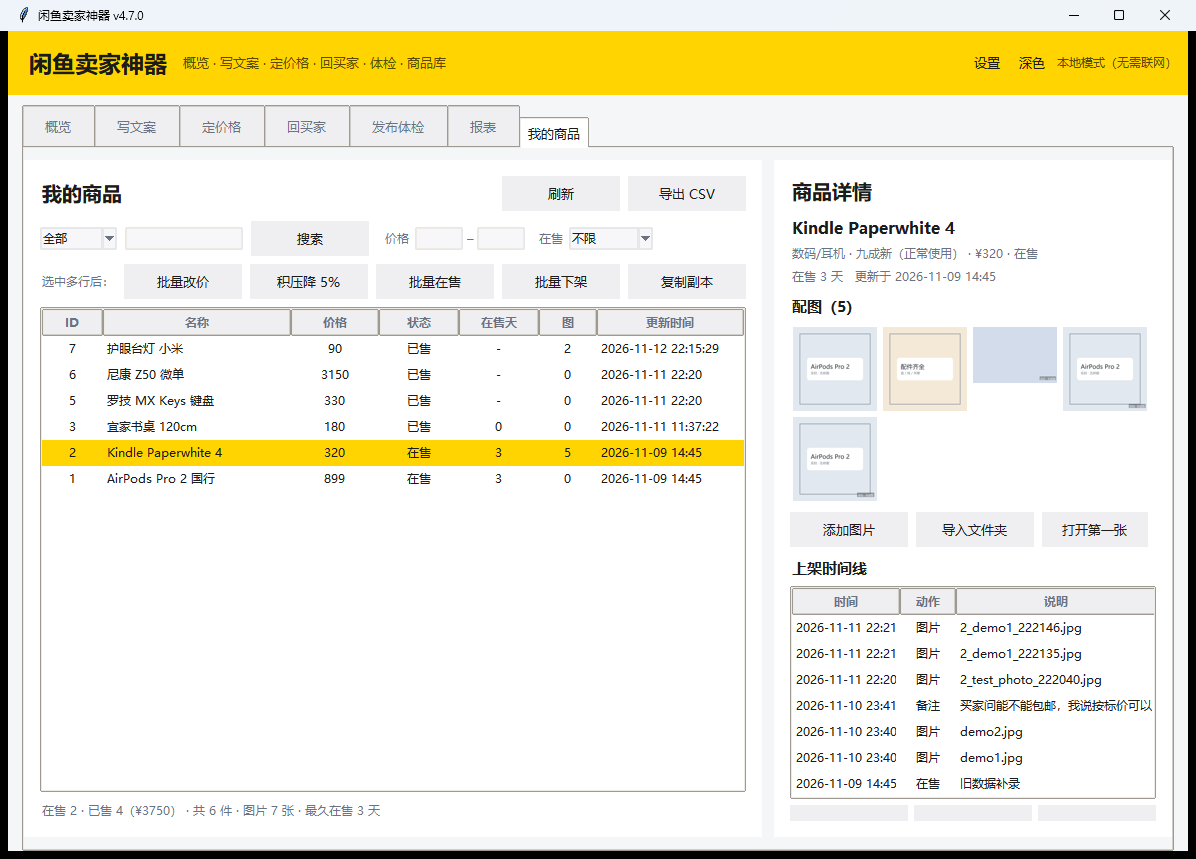
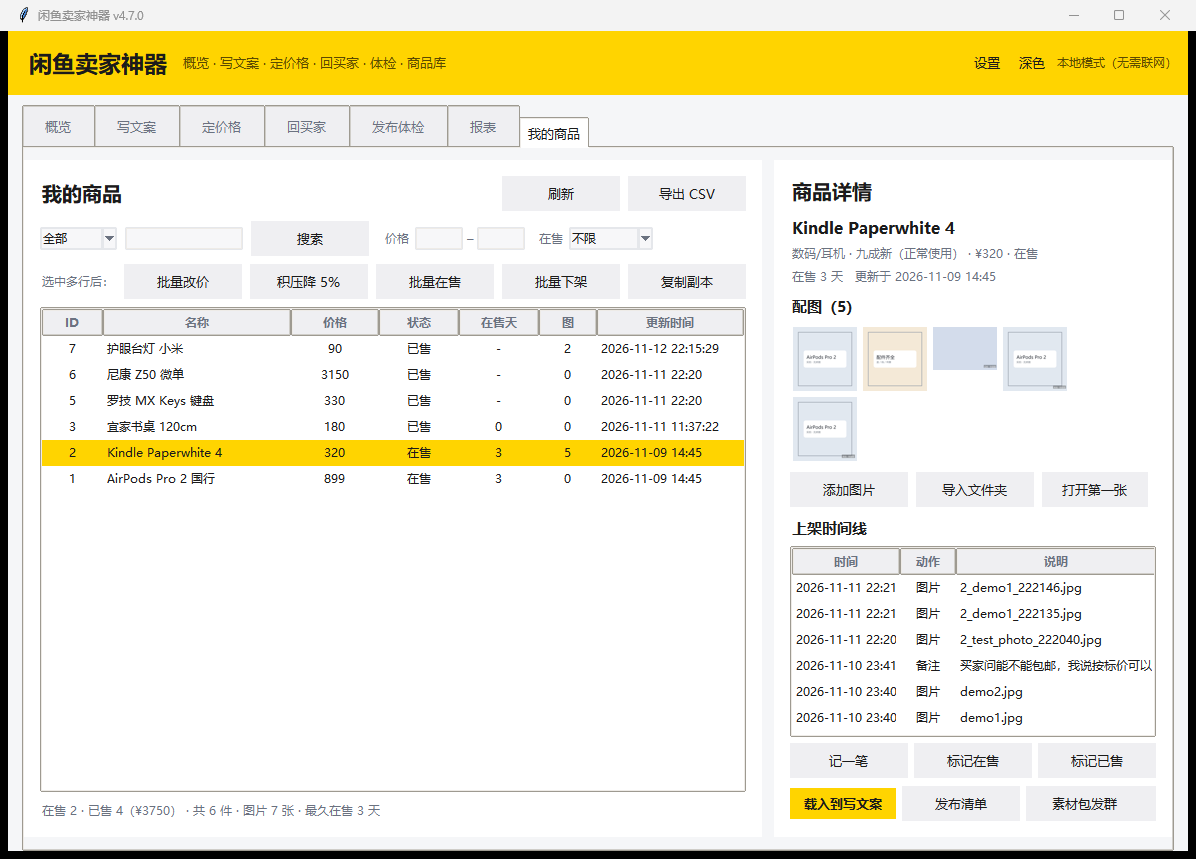
fix: 详情面板压缩，底部按钮不再被裁

diff --git a/app.py b/app.py
@@ -1191,7 +1191,7 @@ class App(tk.Tk):
 
         self.lbl_time_head = ttk.Label(right, text="上架时间线", style="H2.TLabel")
         self.lbl_time_head.pack(anchor="w")
-        self.tv_time = ttk.Treeview(right, columns=("at", "kind", "note"), show="headings", height=7)
+        self.tv_time = ttk.Treeview(right, columns=("at", "kind", "note"), show="headings", height=4)
         for c, t, w, a in (("at", "时间", 108, "w"), ("kind", "动作", 56, "center"),
                            ("note", "说明", 200, "w")):
             self.tv_time.heading(c, text=t)
@@ -1209,12 +1209,12 @@ class App(tk.Tk):
 
         act2 = ttk.Frame(right, style="Card.TFrame")
         act2.pack(fill="x", pady=(8, 0))
-        ttk.Button(act2, text="载入到写文案", style="Accent.TButton",
+        ttk.Button(act2, text="载入到写文案", style="Accent.TButton", padding=(8, 5),
                    command=self.load_product).pack(side="left", fill="x", expand=True)
         ttk.Button(act2, text="发布清单", style="Ghost.TButton",
-                   command=self.export_listing).pack(side="left", padx=(8, 0))
+                   command=self.export_listing).pack(side="left", padx=(6, 0))
         ttk.Button(act2, text="素材包发群", style="Ghost.TButton",
-                   command=self.push_bundle).pack(side="left", padx=(8, 0))
+                   command=self.push_bundle).pack(side="left", padx=(6, 0))
         ttk.Button(act2, text="删除", style="Ghost.TButton",
                    command=self.delete_product).pack(side="right")
 
@@ -1727,7 +1727,7 @@ class App(tk.Tk):
         self.set_status(f"已导出 {n} 条到 {path}")
 
     # ------------------------------------------------------------ 详情：图片与时间线
-    def _photo(self, path: str, size: int = 84):
+    def _photo(self, path: str, size: int = 64):
         """尽量做缩略图：先试 Pillow（支持 jpg/webp），退回 tkinter 原生（png/gif）。"""
         try:
             from PIL import Image, ImageTk  # type: ignore
